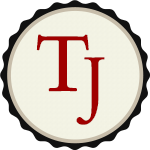
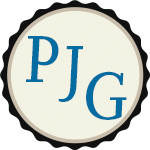
update all the things.

Changed region(s): [[0.16, 0.2133, 0.6133, 0.6933], [0.5067, 0.3733, 0.8533, 0.8533]]

diff --git a/docs/css/tufte.scss b/docs/css/tufte.scss
@@ -247,6 +247,7 @@ article { position: relative;
           padding: 1
 
           rem 0rem 2.5rem 0rem; } // reduced top and bottom padding by 50%
+          
 
 section { padding-top: 1rem;
           padding-bottom: 1rem; }
@@ -593,67 +594,29 @@ hr.slender {
   -moz-osx-font-smoothing: grayscale;
 }
 
-.icon-mail3:before {
-  content: "\ea85";
-}
-.icon-amazon:before {
-  content: "\ea87";
-}
-.icon-google2:before {
-  content: "\ea89";
-}
-.icon-facebook2:before {
-  content: "\ea91";
+.icon-google:before {
+  content: "\ea88";
 }
 .icon-twitter:before {
   content: "\ea96";
 }
-.icon-rss2:before {
-  content: "\ea9c";
-}
-.icon-youtube:before {
-  content: "\ea9d";
-}
-.icon-vimeo2:before {
-  content: "\eaa1";
-}
-.icon-lanyrd:before {
-  content: "\eaa2";
-}
-.icon-flickr3:before {
-  content: "\eaa5";
-}
-.icon-behance2:before {
-  content: "\eaa9";
-}
-.icon-dropbox:before {
-  content: "\eaae";
-}
 .icon-github:before {
   content: "\eab0";
-}
-.icon-blogger2:before {
-  content: "\eab8";
-}
-.icon-soundcloud2:before {
-  content: "\eac4";
-}
-.icon-skype:before {
-  content: "\eac5";
-}
-.icon-reddit:before {
-  content: "\eac6";
 }
 .icon-linkedin:before {
   content: "\eac9";
 }
-.icon-pinterest:before {
-  content: "\ead1";
-}
-.icon-paypal:before {
-  content: "\ead8";
-}
-.icon-html-five:before {
-  content: "\eae4";
+.icon-instagram:before {
+  content: "\ea92";
 }
 /*-- End of Icomoon icon font section --*/
+
+
+
+.archive-item {
+  list-style-type: none;
+  display: inline;
+}
+.archive-list {
+  list-style: none;
+}

diff --git a/docs/_includes/head.html b/docs/_includes/head.html
@@ -43,7 +43,9 @@
   <link rel="stylesheet" type="text/css" href="{{ "/css/tufte.css" | prepend: site.baseurl }}">
   <!-- <link rel="stylesheet" type="text/css" href="{{ "/css/print.css" | prepend: site.baseurl }}" media="print"> -->
 
-  <link rel="canonical" href="{{ page.url | replace:'index.html','' | prepend: site.baseurl | prepend: site.url }}">
+  <!-- <link rel="canonical" href="{{ page.url | replace:'index.html','' | prepend: site.baseurl | prepend: site.url }}"> -->
 
-  <link rel="alternate" type="application/rss+xml" title="{{ site.title }}" href="{{ "/feed.xml" | prepend: site.baseurl | prepend: site.url }}" />
+  <!-- <link rel="alternate" type="application/rss+xml" title="{{ site.title }}" href="{{ "/feed.xml" | prepend: site.baseurl | prepend: site.url }}" /> -->
+
+  <link rel="icon" type="image/png" href="{{site.baseurl}}/assets/img/favicon.ico" />
 </head>

diff --git a/docs/_layouts/post.html b/docs/_layouts/post.html
@@ -2,7 +2,18 @@
 layout: default
 ---
 <h1>{{ page.title}}</h1>
-<p class="subtitle">{{ page.date | date: "%B %-d, %Y" }}</p>
+<p class="subtitle">{{ page.date | date_to_string }}</p>
+<div class="post-categories">
+    {% if post %}
+      {% assign categories = post.categories %}
+    {% else %}
+      {% assign categories = page.categories %}
+    {% endif %}
+    {% for category in categories %}
+    <a href="{{site.baseurl}}/categories/#{{category|slugize}}">{{category}}</a>
+    {% unless forloop.last %}-{% endunless %}
+    {% endfor %}
+  </div>
 
 {{ content }}
 

diff --git a/docs/_sass/_settings.scss b/docs/_sass/_settings.scss
@@ -8,8 +8,8 @@ $sans-font: "Gill Sans", "Gill Sans MT", "Gotham Narrow", "Lato", Calibri, sans-
 $code-font: Consolas, "Liberation Mono", Menlo, Courier, monospace;
 $url-font: "Lucida Console", "Lucida Sans Typewriter", Monaco, "Bitstream Vera Sans Mono", monospace;
 $text-color: #111;
-$bg-color: #fffff8;
-$contrast-color: #a00000;
+$bg-color: #f0f0e2;
+$contrast-color: #046ca1;
 $border-color: #333333;
 $link-style: underline; // choices are 'color' or 'underline'. Color option styles links with $contrast-color set above
 

diff --git a/docs/_includes/footer.html b/docs/_includes/footer.html
@@ -1,10 +1,9 @@
 <footer>
   <hr class="slender">
-  <ul class="footer-links">
-    <li><a href="mailto:hate@spam.net"><span class="icon-mail3"></span></a></li>    
+  <ul class="footer-links">   
     {% for entry in site.data.social %}
       <li>
-        <a href="{{ entry.link }}"><span class="{{ entry.icon }}"></span></a>
+        <a href="{{ entry.link }}" target="_blank"><span class="{{ entry.icon }}"></span></a>
       </li>
     {% endfor %}  
   </ul>

diff --git a/docs/about/index.md b/docs/about/index.md
@@ -1,14 +1,15 @@
 ---
-layout: full-width
+layout: page
 title: About
+permalink: /about/
 ---
 
-The *Tufte-Jekyll* theme is a natural extension of the work done by [Edward Tufte](https://github.com/edwardtufte/tufte-css) and his collaborators on Github who created a CSS file that allows web writers to use the same simple and elegant style employed in his published materials.
+Dr Phil Gough, FHEA
 
-To incorporate these styles into a Jekyll theme, I have made some very slight modifications that attempt to maintain the feel of the CSS styles in his Github repo.
+### More Information
 
-Note that this is a full-width layout. This was accomplished by including ```layout: full-width``` in the YAML front matter for this page. Keep in mind that all the Tufte-Jekyll sidenote and marginnote goodness will not work on full-width layouts! 
+I'm a lecturer at The University of Sydney School of Architecture, Design and Planning, in the [discipline of design](https://design.sydney.edu.au).
 
-You can find the source code for Jekyll at [github.com/jekyll/jekyll](https://github.com/jekyll/jekyll).
+I'm also a member of the [affective interactions lab](https://design.sydney.edu.au/research/affectiveinteractions/), where we design for affective experiences.
 
-
+My contact info is on my [academic profile page](https://www.sydney.edu.au/architecture/about/our-people/academic-staff/phillip-gough.html).

diff --git a/docs/archive/index.md b/docs/archive/index.md
@@ -1,0 +1,22 @@
+---
+layout: page
+permalink: /categories/
+title: Categories
+---
+
+<section id="categories">
+{% for category in site.categories %}
+  <div class="archive-group">
+    {% capture category_name %}{{ category | first }}{% endcapture %}
+    <div id="#{{ category_name | slugize }}"></div>
+    <h3 class="category-head">{{ category_name }}</h3>
+    <a name="{{ category_name | slugize }}"></a>
+    {% for post in site.categories[category_name] %}
+    <ul class="archive-list">
+      <li class="archive-item"><a href="{{ site.baseurl }}{{ post.url }}">{{post.title}}</a></li>
+      <li class="archive-item">{{post.date | date_to_string}}</li>
+    </ul>
+    {% endfor %}
+  </div>
+{% endfor %}
+</section>

diff --git a/docs/_posts/2021-9-6-Hello-World.md b/docs/_posts/2021-9-6-Hello-World.md
@@ -1,6 +1,6 @@
 ---
 layout: post
-title: New Blog
+title: Hello
 categories: [General]
 date: 6/09/2021
 ---
